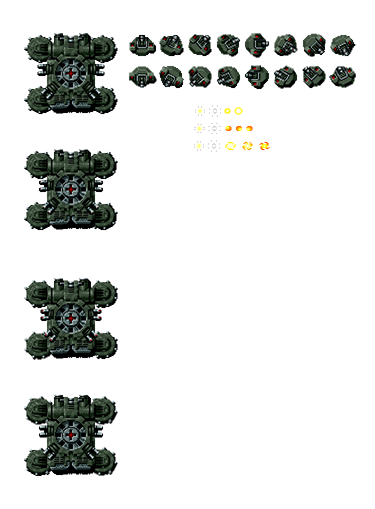
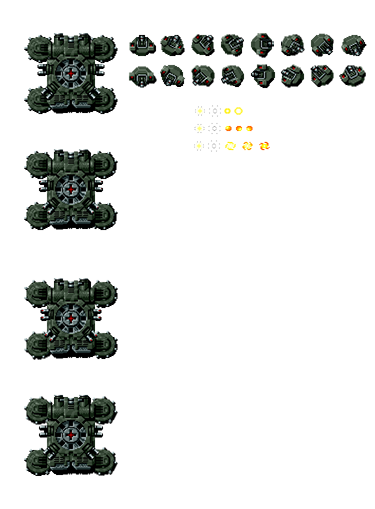
bosscannon

Changed region(s): [[0.4107, 0.0589, 0.968, 0.1768]]

diff --git a/Raiden Game/BossCannon.cpp b/Raiden Game/BossCannon.cpp
@@ -1,0 +1,214 @@
+#include "Application.h"
+#include "BossCannon.h"
+#include "ModuleCollision.h"
+#include "ModuleEnemies.h"
+#include "ModuleParticles.h"
+#include "ModulePlayer.h"
+#include "ModulePlayer2.h"
+#include "ModuleTextures.h"
+#include "ModuleAudio.h"
+
+#include "SDL/include/SDL_timer.h"
+
+
+BossCannon::BossCannon(int x, int y, int shoot_num) : Enemy(x, y)
+{
+	down.PushBack({ 129,64,28,25 });
+
+	up.PushBack({ 129,33,28,25 });
+
+	right.PushBack({ 219,33,28,25 });
+
+	left.PushBack({ 219,64,28,25 });
+
+	down_left.PushBack({ 159,64,28,25 });
+	down_left.PushBack({ 189,64,28,25 });
+	down_left.PushBack({ 219,64,28,25 });
+
+	down_right.PushBack({ 279,33,28,25 });
+	down_right.PushBack({ 309,33,28,25 });
+	down_right.PushBack({ 339,33,28,25 });
+
+	up_right.PushBack({ 159,33,28,25 });
+	up_right.PushBack({ 189,33,28,25 });
+	up_right.PushBack({ 219,33,28,25 });
+
+	up_left.PushBack({ 279,64,28,25 });
+	up_left.PushBack({ 309,64,28,25 });
+	up_left.PushBack({ 339,64,28,25 });
+
+	//TankCannon shot
+	color_rotatory_shot.anim.PushBack({ 22, 40, 6, 7 });
+	color_rotatory_shot.anim.PushBack({ 39, 40, 6, 7 });
+	color_rotatory_shot.anim.PushBack({ 56, 40, 6, 7 });
+	color_rotatory_shot.anim.speed = 0.3f;
+	color_rotatory_shot.life = 3000;
+	color_rotatory_shot.anim.loop = true;
+
+
+	/*explosion.anim.PushBack({ 0,0,32,30 });
+	explosion.anim.PushBack({ 32,0,32,30 });
+	explosion.anim.PushBack({ 64,0,32,30 });
+	explosion.anim.PushBack({ 96,0,32,30 });
+	explosion.anim.PushBack({ 128,0,32,30 });
+	explosion.anim.PushBack({ 160,0,32,30 });
+	explosion.anim.PushBack({ 192,0,32,30 });
+	explosion.anim.PushBack({ 224,0,32,30 });
+	explosion.anim.PushBack({ 256,0,32,30 });
+	explosion.anim.PushBack({ 288,0,32,30 });
+	explosion.anim.PushBack({ 0,0,0,0 });
+	explosion.anim.speed = 0.2f;
+	explosion.anim.loop = false;
+	explosion.life = 1000;*/
+
+
+	sprite_path = App->textures->Load("Assets/Images/Tank.png");
+
+
+	if (sprite_path == nullptr) {
+		LOG("Error loading CannonTank's textures. SDL Error: %s", SDL_GetError());
+	}
+	animation = &down;
+
+	shoot_number = shoot_num;
+	initial_y = y;
+	increment_y = 0.0f;
+
+
+
+	hits_life = 2.0f;//2.0f
+
+	player_initial_x = App->player->position.x; //Stores player position X when tank is spawning.
+
+	collider = App->collision->AddCollider({ 0, 0, 28, 25 }, COLLIDER_TYPE::COLLIDER_BOX, (Module*)App->enemies);
+
+	timer_shot = SDL_GetTicks();
+
+}
+
+void BossCannon::Move() {
+
+	increment_y = (position.y - initial_y);//SAME MOVEMENT AS THE TANK
+
+	if (player_initial_x > position.x) {
+		position.x++;
+		speed = 0.1f;
+
+	}
+	else if (player_initial_x< position.x) {
+		position.x--;
+		speed = 0.1f;
+	}
+	else {
+		speed = 0.0f;
+	}
+
+	if ((App->player->position.y - 2 > position.y + 34)) {// DOWN
+
+		if ((App->player->position.x > position.x) && (App->player->position.x < position.x + 38)) {
+			animation = &down;
+		}
+		else if (App->player->position.x > position.x - 2) {
+			animation = &down_right;
+		}
+		else if (App->player->position.x < position.x + 38) {
+			animation = &down_left;
+		}
+	}
+	else if ((App->player->position.y < position.y)) {//UP
+
+		if ((App->player->position.x > position.x) && (App->player->position.x < position.x + 38)) {
+			animation = &up;
+		}
+		else if (App->player->position.x > position.x) {
+			animation = &up_right;
+		}
+		else if (App->player->position.x < position.x + 38) {
+			animation = &up_left;
+		}
+	}
+	else if ((App->player->position.y > position.y) && (App->player->position.y < position.y + 34)) {//MIDDLE
+		if (App->player->position.x > position.x) {
+			animation = &right;
+		}
+		else if (App->player->position.x < position.x + 38) {
+			animation = &left;
+		}
+	}
+
+	if (SDL_GetTicks() - timer_shot > 2500 && shoot_number>0) {
+		Shot(color_rotatory_shot, App->player->position, position);
+		timer_shot = SDL_GetTicks();
+		shoot_number--;
+	}
+
+
+	position.y += speed;
+	collider->SetPos(position.x, position.y);
+}
+
+
+
+
+void BossCannon::OnCollision(Collider*collider, int num_enemy) {
+
+	if (collider->type == COLLIDER_PLAYER_SHOT) {
+		hits_life -= App->player->hit_dmg;
+
+	}
+	else if ((App->player2->IsEnabled()) && (collider->type == COLLIDER_PLAYER2_SHOT)) {
+		hits_life -= App->player2->hit_dmg;
+
+	}
+	else if (collider->type == COLLIDER_BOMB || collider->type == COLLIDER_BOMB2) {
+		hits_life -= App->player->bomb_dmg;
+	}
+	if (hits_life <= 0) {
+		App->particles->AddParticle(explosion, position.x, position.y, COLLIDER_EXPLOSION);
+		fx_shoot = App->audio->Load_Fx("Assets/Audio/Fx_Tank_Explosion.wav");
+		if (!fx_shoot) {
+			LOG("Error loading shoot's fx: %s", Mix_GetError)
+		}
+		App->audio->Play_Fx(fx_shoot);
+		delete App->enemies->enemies[num_enemy];
+		App->enemies->enemies[num_enemy] = nullptr;
+
+	}
+
+}
+
+void BossCannon::Shot(Particle& shot, iPoint aim_position, fPoint shot_initial_pos) {
+	shot.speed = { 0,0 };
+
+	if (animation == &up) {
+		shot.speed = { 0,-5 };
+	}
+	else if (animation == &down) {
+		shot.speed = { 0,3 };
+	}
+	else if (animation == &right) {
+		shot.speed = { 3,0 };
+
+	}
+	else if (animation == &left) {
+		shot.speed = { -3,0 };
+	}
+	else if (animation == &down_right) {
+		shot.speed = { 3,3 };
+
+	}
+	else if (animation == &down_left) {
+		shot.speed = { -3,3 };
+	}
+	else if (animation == &up_right) {
+		shot.speed = { 3,-4 };
+
+	}
+	else if (animation == &up_left) {
+		shot.speed = { -3,-4 };
+	}
+
+	App->particles->AddParticle(shot, shot_initial_pos.x + 19, shot_initial_pos.y + 17, COLLIDER_ENEMY_SHOT);
+
+
+}

diff --git a/Raiden Game/BossCannon.h b/Raiden Game/BossCannon.h
@@ -1,0 +1,53 @@
+#ifndef __BOSSCANNON_H__
+#define __BOSSCANNON_H__
+
+
+#include "Enemy.h"
+#include "ModuleParticles.h"
+
+class BossCannon : public Enemy
+{
+private:
+
+	Animation down;
+	Animation up;
+	Animation left;
+	Animation right;
+	Animation down_left;
+	Animation down_right;
+	Animation up_left;
+	Animation up_right;
+
+	Particle explosion;
+	Particle color_rotatory_shot;
+	Mix_Chunk* fx_shoot = nullptr;
+	void OnCollision(Collider* collider, int num_enemy);
+
+
+	float speed;
+	float increment_y;
+	float initial_y;
+	int player_initial_x;
+
+	float hits_life;
+	float hits_aim;
+	int shoot_number = 0;
+	void Shot(Particle& shot, iPoint aim_position, fPoint shot_initial_pos);
+	Uint32 timer_shot;
+
+
+
+
+
+
+public:
+
+	BossCannon(int x, int y, int shoot_num);
+	void Move();
+
+
+
+
+};
+
+#endif// __BOSSCANNON_H__

diff --git a/Raiden Game/Boss.cpp b/Raiden Game/Boss.cpp
@@ -15,10 +15,10 @@ Boss::Boss(int x, int y, int shoot_num) : Enemy(x, y)
 
 	sprite_path = App->textures->Load("Assets/Images/Boss_lvl1.png");
 
-	idle.PushBack({ 49,67,186,161 });
-	idle.PushBack({ 49,299,186,161 });
-	idle.PushBack({ 49,557,186,161 });
-	idle.PushBack({ 49,790,186,161 });
+	idle.PushBack({ 24,33,94,81 });
+	idle.PushBack({ 24,149,94,81 });
+	idle.PushBack({ 24,278,94,81 });
+	idle.PushBack({ 24,395,94,81 });
 	idle.speed = 0.01f;
 	idle.loop = true;
 
